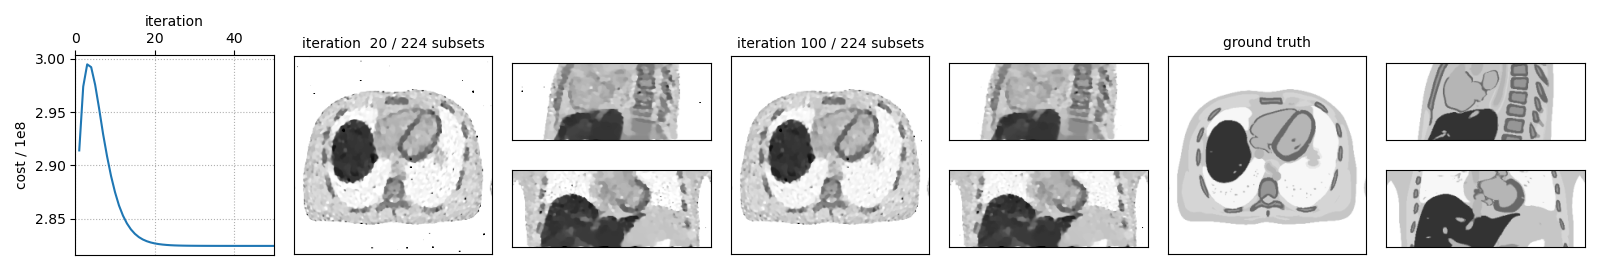
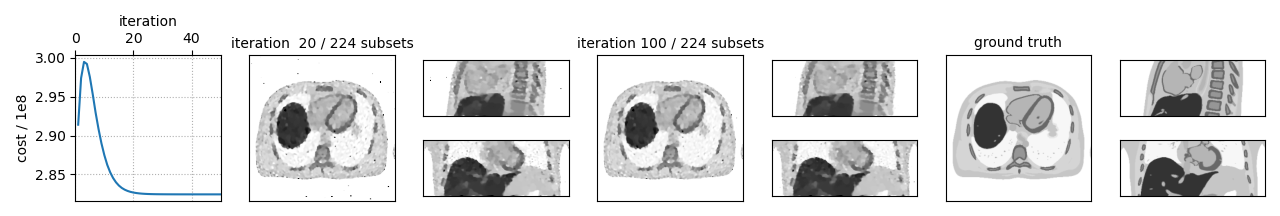
update figure

Changed region(s): [[0.0, 0.0556, 1.0, 0.9722]]

diff --git a/python/plot_3d.py b/python/plot_3d.py
@@ -13,7 +13,7 @@ ims = {'vmax':1.2*data['img'].max(), 'cmap': plt.cm.Greys}
 it = 20
 i  = np.argwhere(data['it'] == it)[0][0]
 
-fig = plt.figure(figsize = (16,2.7))
+fig = plt.figure(figsize = (0.8*16,0.8*2.7))
 gs = gridspec.GridSpec(2, 7)
 
 ax = fig.add_subplot(gs[:2, :1])
